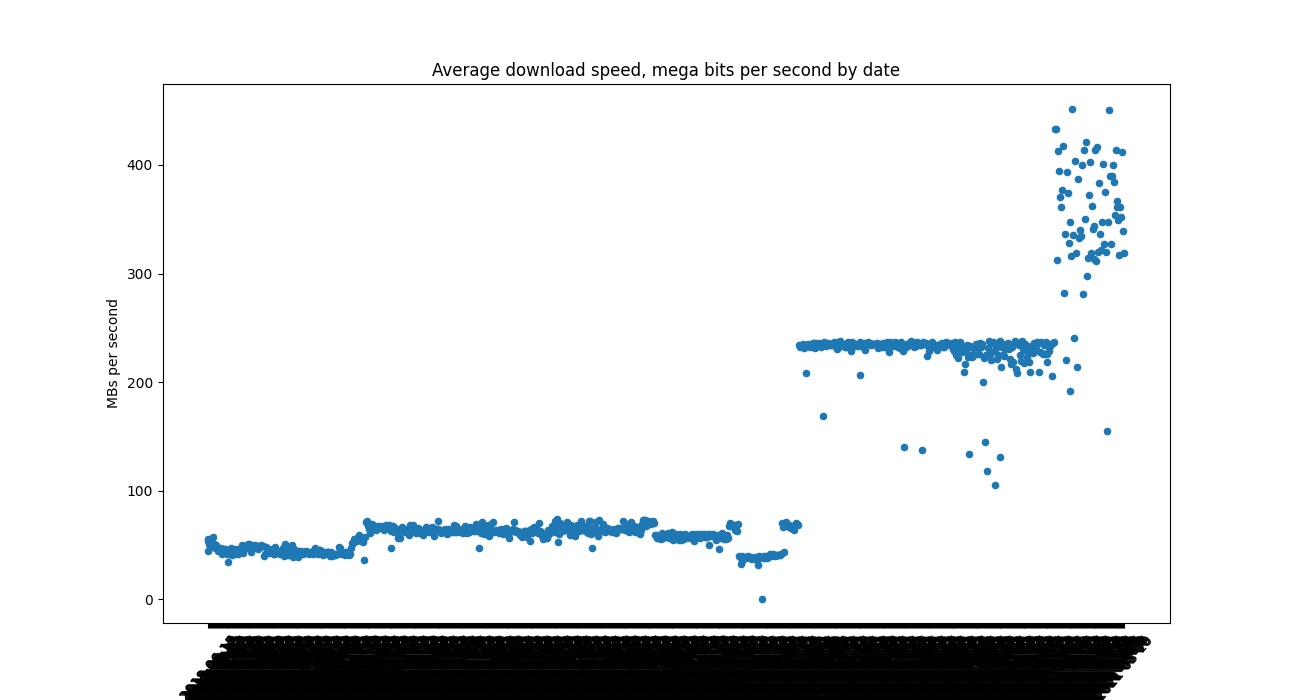
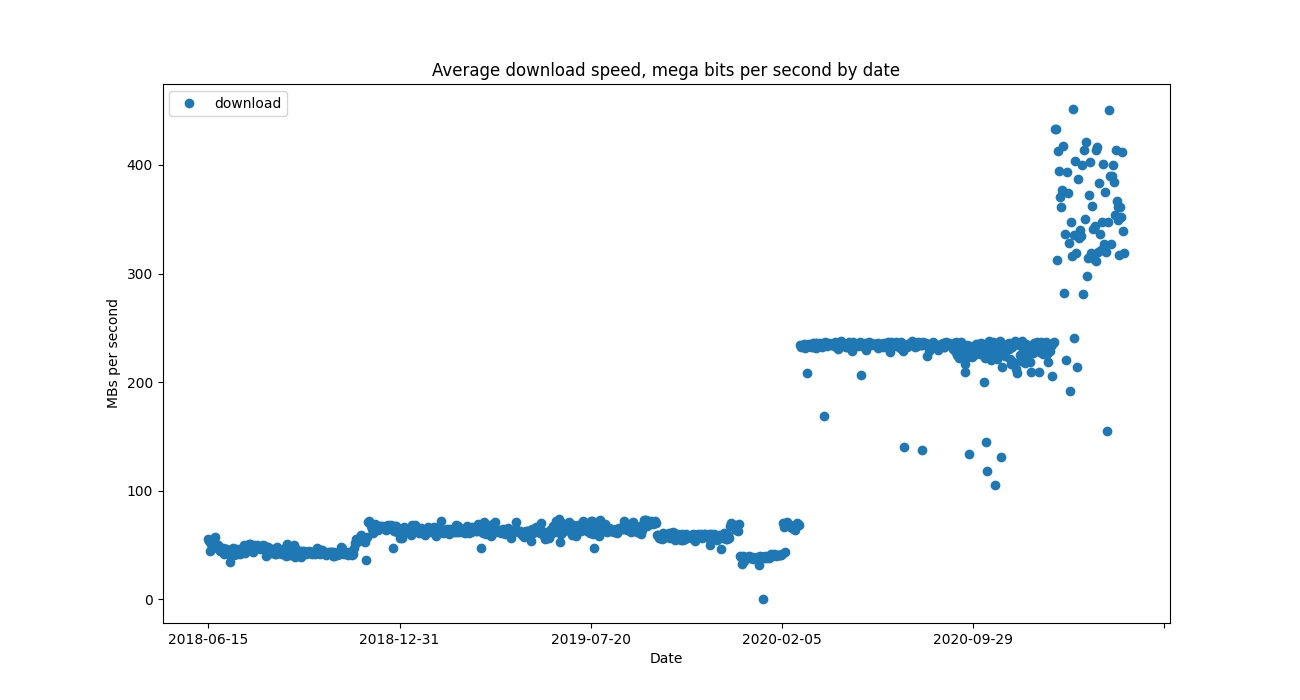
Scatter graphs optimized

diff --git a/dvrmediaanalysis.py b/dvrmediaanalysis.py
@@ -261,7 +261,7 @@ class MyWindow(QtWidgets.QMainWindow, Ui_MainWindow):
 
     def scatter_graph(self, new_dataframe, keys):
         """Build a scatter plot graph."""
-        ax = new_dataframe.plot.scatter(x=self.single_graph_labels_dict["X-Axis"], y=self.single_graph_labels_dict["Y-Axis"], figsize=(13, 7), rot=50)
+        ax = new_dataframe.plot(x=self.single_graph_labels_dict["X-Axis"], y=self.single_graph_labels_dict["Y-Axis"], style='o', figsize=(13, 7))
         ax.set_xlabel(self.single_graph_labels_dict["X-Label"])
         ax.set_ylabel(self.single_graph_labels_dict["Y-Label"])
         ax.set_title(self.single_graph_labels_dict["Title"])
